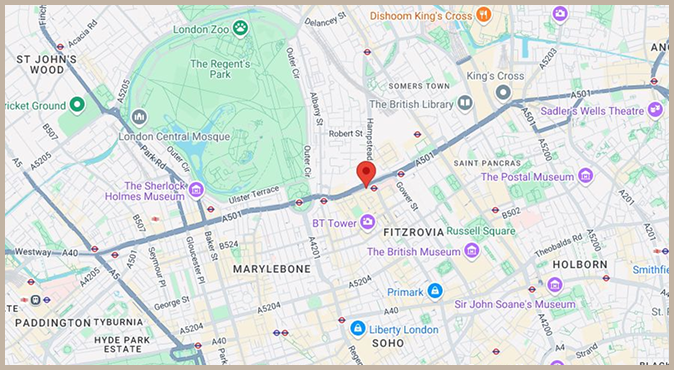
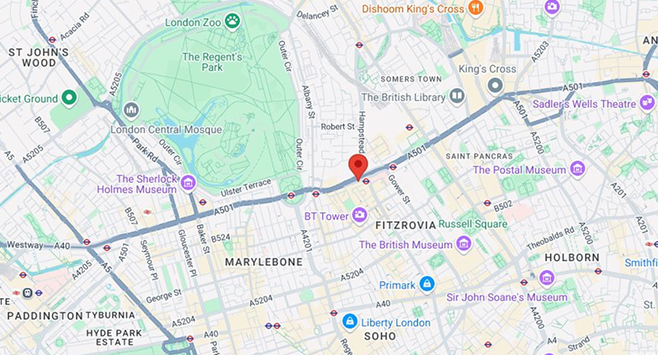
Added and styled the bento box design element

diff --git a/public/home.css b/public/home.css
@@ -226,3 +226,98 @@ nav{
     color: white;
     padding: 10px;
 }
+
+
+
+.bentoBoxContainer{
+    width: 100%;
+    margin-top: 50px;
+    display: flex;
+    justify-content: center;
+    align-items: center;
+}
+.bentoBox{
+    background-color: #F2EDE4;
+    width: fit-content;
+    display: grid;
+    grid-template-columns: auto auto;
+    grid-template-rows: auto auto;
+}
+.yourChair{
+    display: flex;
+    justify-content: flex-start;
+    align-items: flex-start;
+    gap: 10px;
+    padding: 10px;
+    border-right: 6px solid #C2B3A3;
+    border-bottom: 6px solid #C2B3A3;
+}
+.yourChair img{
+    width: 264px;
+    height: 330px;
+}
+.yourChair h1{
+    font-family: 'Bebas Neue';
+    font-size: 3em;
+    width: 200px;
+    margin: 0;
+    padding: 0;
+}
+.cleanCuts{
+    display: flex;
+    justify-content: flex-start;
+    align-items: flex-start;
+    gap: 20px;
+    padding: 10px;
+    border-bottom: 6px solid #C2B3A3;
+}
+.cleanCutsTxt {
+    width: 428px;
+    height: 100%;
+}
+.cleanCuts h1{
+    font-family: 'Bebas Neue';
+    font-size: 3em;
+    margin-top: 0;
+}
+.cleanCuts p{
+    font-family: 'inter';
+    font-weight: bold;
+    margin-top: -20px;
+}
+.cleanCuts img{
+    width: 190px;
+    height: 190px;
+    transform: rotate(200deg);
+}
+.brandPartners{
+    display: flex;
+    flex-direction: column;
+    justify-content: center;
+    align-items: center;
+    width: 654px;
+    border-right: 6px solid #C2B3A3;
+}
+.brandPartners h1{
+    display: flex;
+    justify-content: center;
+    align-items: center;
+    font-family: 'Bebas Neue';
+    font-size: 3em;
+    width: 100%;
+}
+.brands{
+    display: grid;
+    grid-template-columns: auto auto;
+    grid-template-rows: auto auto;
+    justify-content: center;
+    align-content: center;
+}
+.brands img{
+    width: 230px;
+    height: 129px;
+}
+#map{
+    width: 100%;
+    height: 100%;
+}

diff --git a/public/index.html b/public/index.html
@@ -62,33 +62,34 @@
             </div>
         </div>
 
-        <div class="bentoBox">
-            <div class="yourChair">
-                <img src="./images/yourChair.jpg" alt="barber chair">
-                <h1>YOUR CHAIR, YOUR TIME</h1>
-            </div>
-
-            <div class="cleanCuts">
-                <div class="cleanCutsTxt">
-                    <h1>CLEAN CUTS, EVERY SINGLE TIME</h1>
-                    <p>Every cut starts with a conversation. Before a single snip, we take the time to understand what you want and assess your face shape, hair type and the style that'll avtually suit you - not just the trend of the week</p>
+        <div class="bentoBoxContainer">
+            <div class="bentoBox">
+                <div class="yourChair">
+                    <img src="./images/yourChair.jpg" alt="barber chair">
+                    <h1>YOUR CHAIR, YOUR TIME</h1>
                 </div>
-                <img src="./images/scissors.png" alt="scissors">
-            </div>
 
-            <div class="brandPartners">
-                <h1>BRANDS WE'VE PARTNERED WITH</h1>
-                <div class="brands">
-                    <img src="./images/LOreal-Logo-6-removebg-preview.png" alt="Loreal logo">
-                    <img src="./images/mielle-removebg-preview.png" alt="Mielle logo">
-                    <img src="./images/logo_brand-olaplex.png" alt="Olaplex logo">
-                    <img src="./images/camille rose.png" alt="Camille rose logo">
+                <div class="cleanCuts">
+                    <div class="cleanCutsTxt">
+                        <h1>CLEAN CUTS, EVERY SINGLE TIME</h1>
+                        <p>Every cut starts with a conversation. Before a single snip, we take the time to understand what you want and assess your face shape, hair type and the style that'll avtually suit you - not just the trend of the week</p>
+                    </div>
+                    <img src="./images/scissors.png" alt="scissors">
                 </div>
-            </div>
 
-            <img src="./images/map.png" alt="map image of the location of the barber shop">
+                <div class="brandPartners">
+                    <h1>BRANDS WE'VE PARTNERED WITH</h1>
+                    <div class="brands">
+                        <img src="./images/LOreal-Logo-6-removebg-preview.png" alt="Loreal logo">
+                        <img src="./images/mielle-removebg-preview.png" alt="Mielle logo">
+                        <img src="./images/logo_brand-olaplex.png" alt="Olaplex logo">
+                        <img src="./images/camille rose.png" alt="Camille rose logo">
+                    </div>
+                </div>
+
+                <img src="./images/map.png" alt="map image of the location of the barber shop" id="map">
+            </div>
         </div>
-
     </main>
 
     <footer></footer>